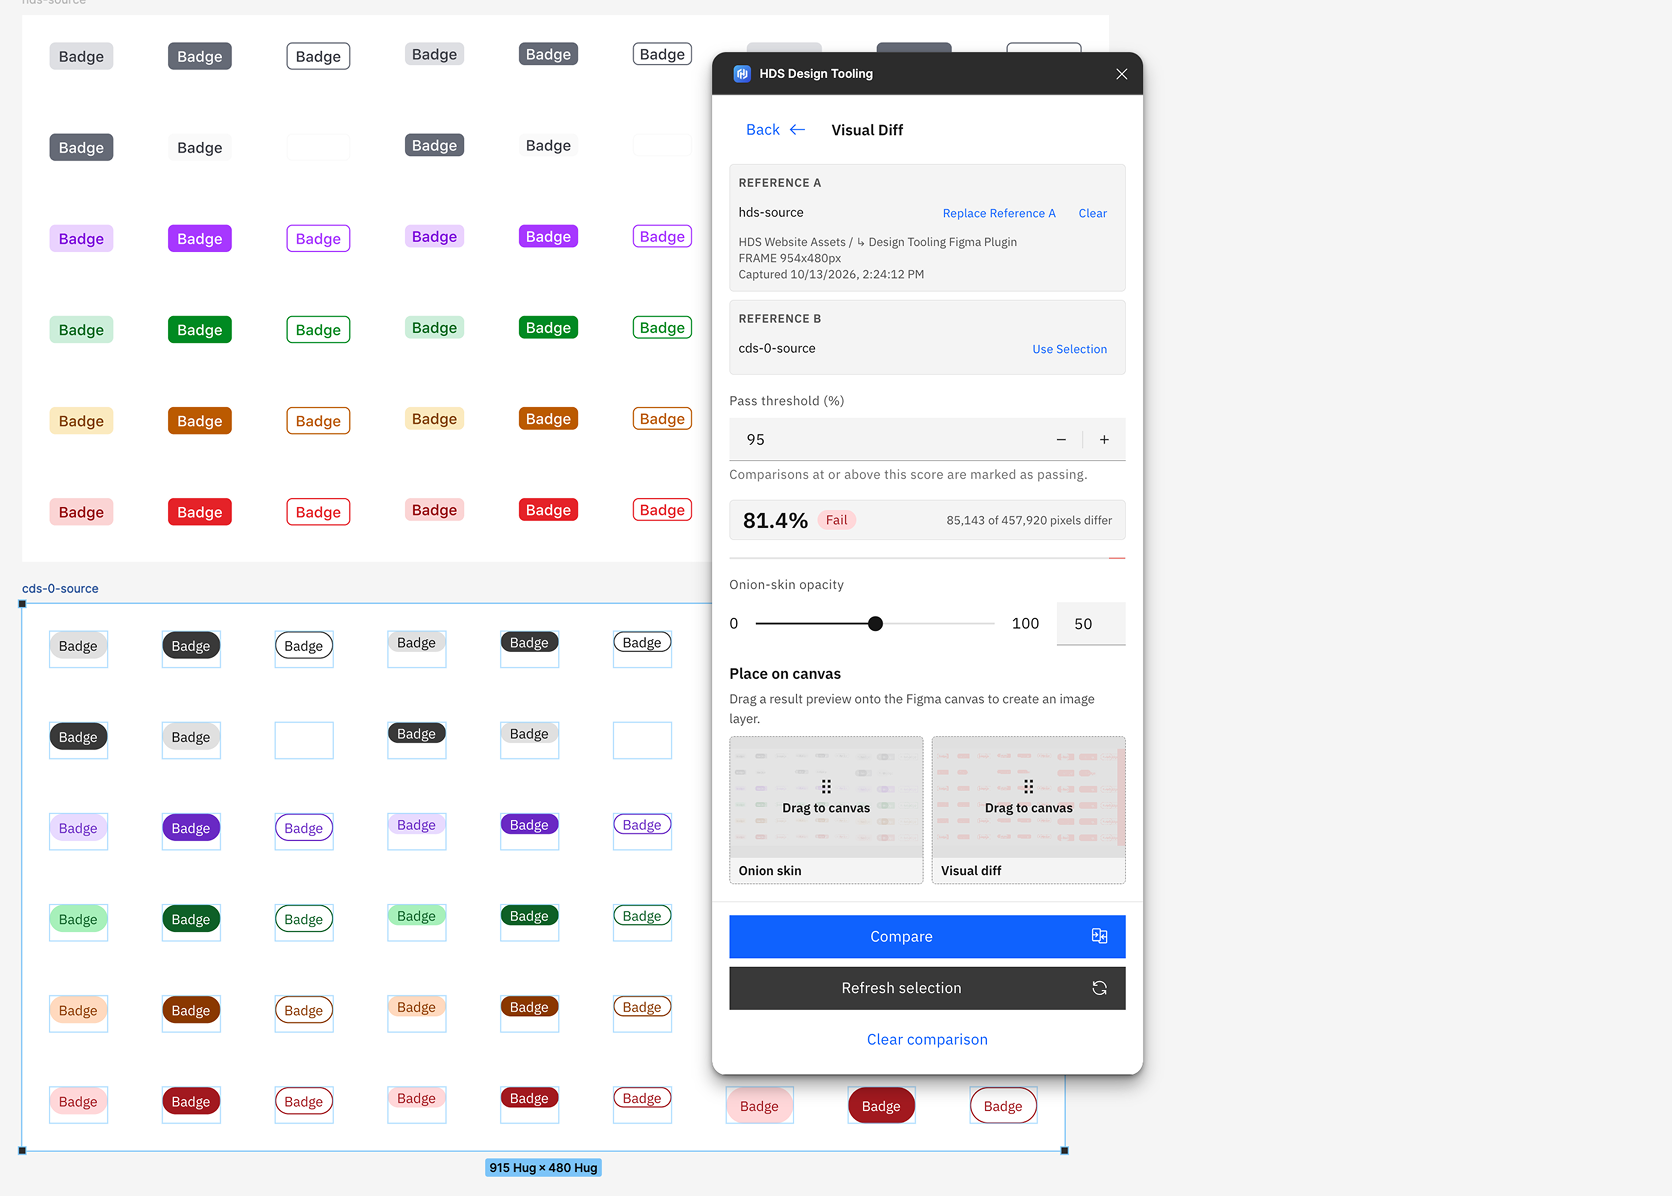
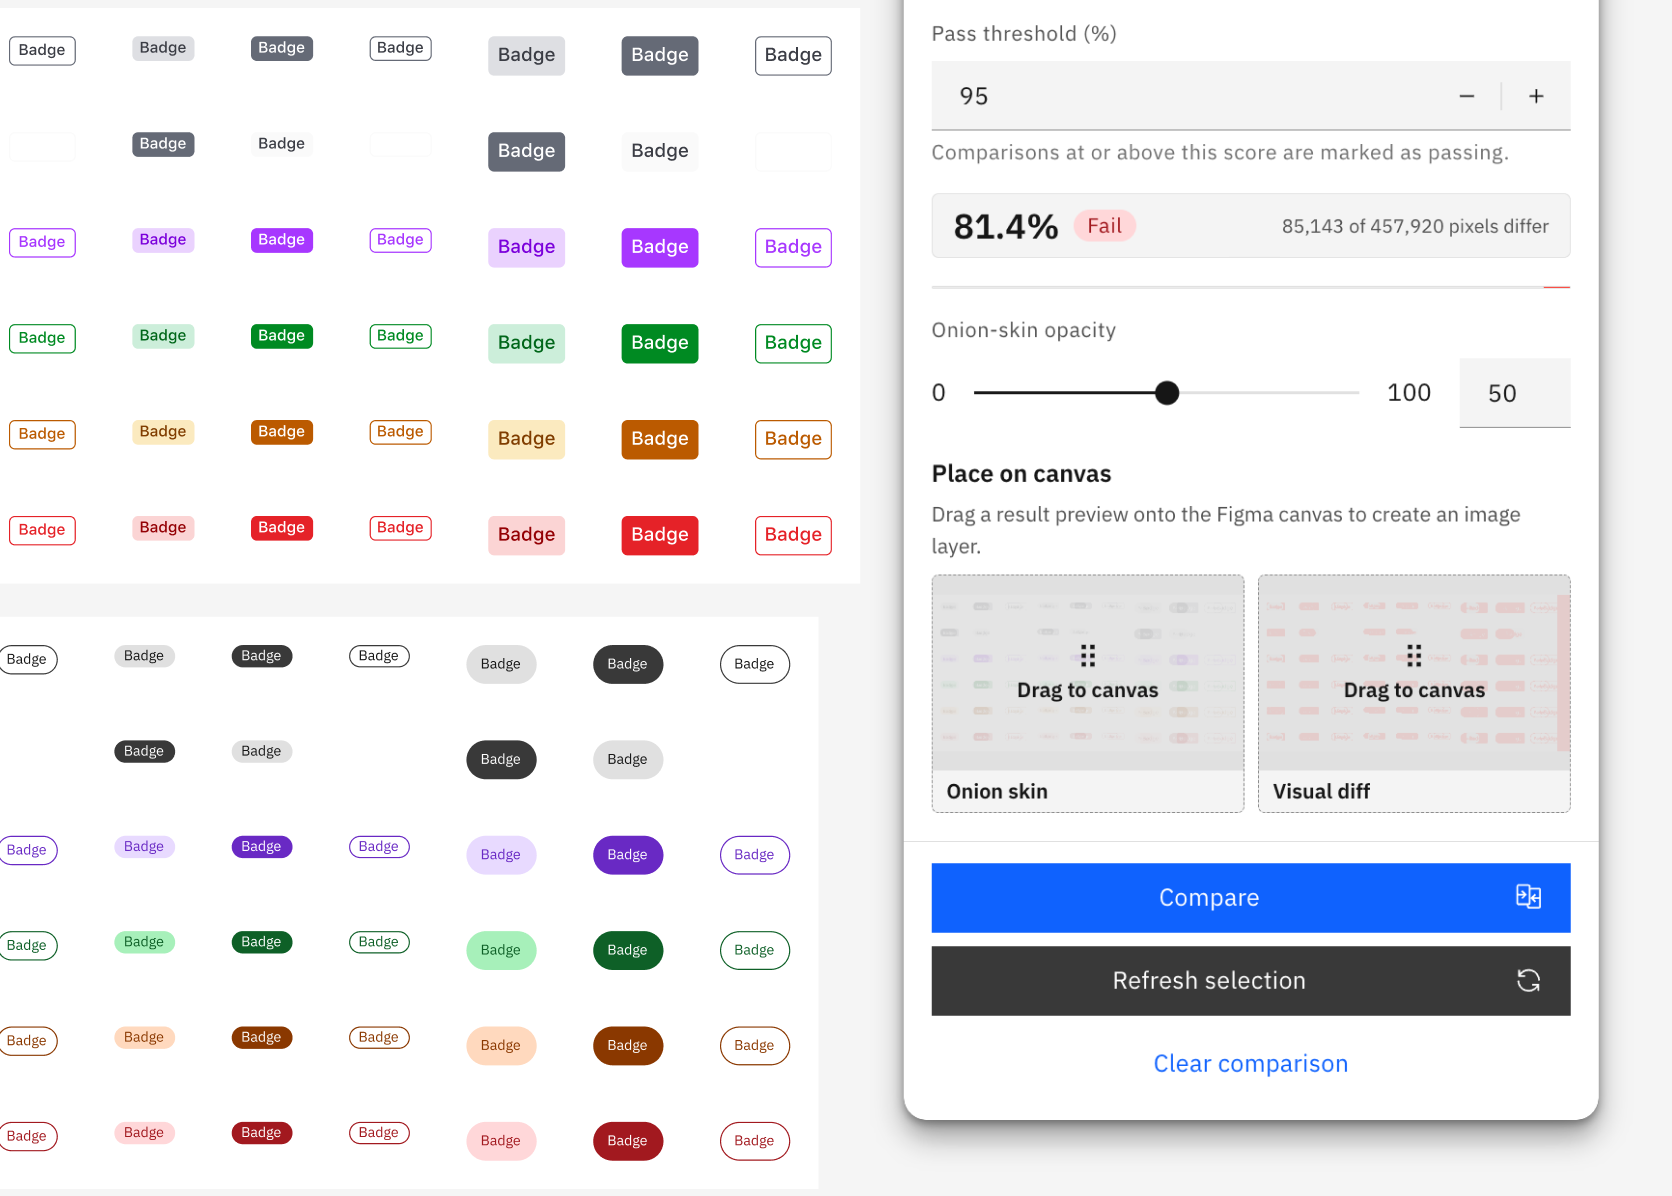
Cleanup images

diff --git a/website/docs/tooling/design-tooling-figma-plugin/partials/visual-diff.md b/website/docs/tooling/design-tooling-figma-plugin/partials/visual-diff.md
@@ -8,13 +8,13 @@ Visual Diff doesn't resize references before comparing them. Different dimension
 
 ## Compare two references
 
-1. Open **Visual Diff** and select select a layer for comparison on the Figma canvas.
-2. Select "Use Selection" to set the selection as **Reference A**.
+1. Open **Visual Diff** and select a layer for comparison on the Figma canvas.
+2. Select **Use Selection** to set the selection as **Reference A**.
 3. Select a second layer on the canvas, then select **Use Selection** for **Reference B**.
 4. The **Compare** button will perform the comparison, generate a score based on pixel differences, and display thumbnails for onion skill and visual diff comparisons.
-5. Review the similarity score. Drag the reference overlays onto the Figma canvas to more closely inspect the differences.
-6. If Reference A has been updated use **Refresh selection** to reload it from the local plugin storage.
-7. Use **Clear comparison** to reset Reference B and the current results.
+5. Review the similarity score. Drag the thumbnails from the "place on canvas" section onto the Figma canvas to more closely inspect the differences.
+6. If **Reference A** has been updated use **Refresh selection** to reload it from the local plugin storage.
+7. Use **Clear comparison** to reset **Reference B** and the current results.
 
 ![](/assets/tooling/design-tooling-figma-plugin/visual-diff-comparison-results.png)
 
@@ -22,11 +22,11 @@ Visual Diff doesn't resize references before comparing them. Different dimension
 
 A high similarity percentage means fewer pixel-level differences. It doesn't confirm that a migration or design review is complete. Intentional changes to content, layout, theme, typography, or component behavior can lower the score.
 
+![](/assets/tooling/design-tooling-figma-plugin/visual-diff-reference-selection.png)
+
 Use the onion skin and highlighted difference views to identify differences. Inspect the related Figma layers and relevant HDS or Carbon guidance to determine whether action is needed.
 
 Drag either result preview onto the Figma canvas to create an image layer for review or discussion.
-
-![](/assets/tooling/design-tooling-figma-plugin/visual-diff-reference-selection.png)
 
 ![](/assets/tooling/design-tooling-figma-plugin/visual-diff-overlay.png)
 
@@ -38,5 +38,5 @@ Visual Diff works across Figma pages and files. It saves **Reference A** in the 
 
 **A note about reference storage**
 
-If Reference A isn't available, clear the selection or restart the plugin. If the issue continues, submit a [feedback or support request](https://forms.cloud.microsoft/r/Ka1D9i712k).
+If **Reference A** isn't available, clear the selection or restart the plugin. If the issue continues, submit a [feedback or support request](https://forms.cloud.microsoft/r/Ka1D9i712k).
 !!!
